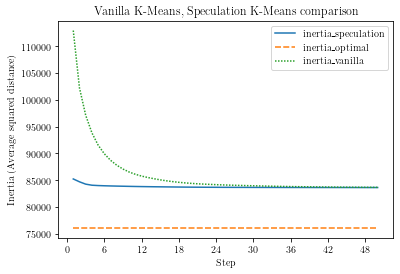
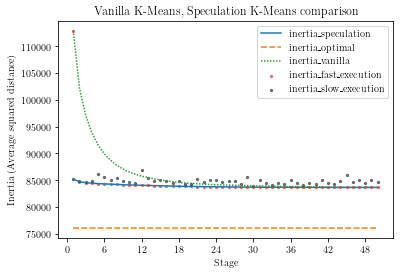
Written section 4. Speculative K-means

Changed region(s): [[0.63, 0.0876, 0.96, 0.3796], [0.18, 0.6423, 0.96, 0.7007], [0.54, 0.9343, 0.6, 0.9927]]

diff --git a/04-method/main.tex b/04-method/main.tex
@@ -2,22 +2,22 @@ Section \ref{section:related_work} has explored the K-Means clustering algorithm
 
 \subsection{Breaking K-Means dependencies}
 
-We saw how Algorithm \ref{alg:1} consists of two main steps: the assignment step and the update step. The assignment step includes \ref{alg:step:3} and \ref{alg:step:4}, while the update step includes \ref{alg:step:5}. The two steps are dependent on each other, as the assignment of data points depends on the current cluster centers, which are in turn updated based on the assignments. This creates a cyclical pattern in the k-means algorithm.
+We saw how Algorithm \ref{alg:1} consists of two main steps: the assignment step and the update step. The assignment step includes \ref{alg:step:3} and \ref{alg:step:4}, while the update step includes \ref{alg:step:5}. The two steps are dependent on each other, as the assignment of data points depends on the current cluster centers, which are in turn updated based on the assignments. This creates a cyclical pattern in the K-Means algorithm.
 
 We can group the K-Means steps into stages, each containing an Assignment step and
 an Update step. Many of these stages are repeated in the K-Means algorithm until convergence.
-A first way of breaking the highlighted dependencies would be to separate in each stage the Update and Assignment into two different processes. This would allow them to run in parallel, thus reducing the overall time of execution of a stage. This could be done by speculating the result of the Assignment (or the Update) allowing the consequent Update (or the Assignment) to start running concurrently. Finally, we could perform a repair step once the correct result of the Assignment (or the Update) is available. Repeating this process until convergence would result in a faster K-Means algorithm.
+A first way of breaking the highlighted dependencies would be to separate in each stage the Update and Assignment into two different processes. This corresponds to the approach used in \cite{Sioulas:282304}, and it aims to run in parallel the Assignment and the Update step, thus reducing the overall time of execution of a single stage. In particular, we would speculate the result of the Assignment (or the Update) allowing the consequent Update (or the Assignment) to start running concurrently. Finally, we could perform a repair stage once the correct result of the Assignment (or the Update) is available. Repeating this procedure for each stage until convergence would result in an overall faster K-Means algorithm.
 
 However, after a study of the time of executions, we can see how the Assignment step takes more time than the Update step. In particular, the ratio between the time of an Assignment step and the time of the Update step increases with $k$, as shown in Figure \ref{fig:ratio_k}. As consequence, the parallelization of Assignment and Update in each stage results inefficient, since the gain of the concurrent execution is irrelevant for $t_{Assignment} \gg t_{Update}$.
 
-\begin{figure}[h]
+\begin{figure}[ht]
 \centering
 \includegraphics[width=\linewidth]{./plots/ratio_k.png}
 \caption{Evolution of ratio between time execution of Assignment and Update}
 \label{fig:ratio_k}
 \end{figure}
 
-Therefore, we decided to use a different approach in the implementation of Speculation. Instead of running Assignment and Update in parallel for each stage, we run two executions of K-Means concurrently. Both executions start with the same given centroids, but there are two distinct executions: the slow execution, which processes one stage consisting of one Assignment step and one Update step using the full dataset, and the fast execution, which runs on a sample of the dataset and is able to process multiple stages in the same amount of time as the slow execution. As soon as the slow execution finishes, the fast execution is interrupted, to guarantee that they both to take the same amount of time.
+Therefore, we decided to use a different approach in the implementation of Speculation. Instead of running Assignment and Update in parallel for each stage, we run two executions of K-Means concurrently. Both executions start with the same given centroids, but there are two distinct executions: the slow execution, which processes one stage consisting of one Assignment stage and one Update step using the full dataset, and the fast execution, which runs on a sample of the dataset and is able to process multiple stages in the same amount of time as the slow execution. As soon as the slow execution finishes, the fast execution is interrupted, to guarantee that they both take the same amount of time.
 Finally, we compare the centroids proposed by both the executions, we compute the inertia they lead to on the entire dataset, and we pick the centroids with the smallest inertia.
 \begin{algorithm}
 \caption{K-Means Clustering using Speculation}
@@ -26,8 +26,8 @@ Finally, we compare the centroids proposed by both the executions, we compute th
 \State Initialize centroids $c_i$ randomly
 \State Create two threads of execution: slow and fast
 \label{state:create_threads}
-\State Run 1 Assignment step and 1 Update step on the slow execution starting from $c_i$
-\State Run as many as possible steps on a sample of the dataset on the fast execution starting from $c_i$
+\State Run 1 Assignment stage and 1 Update stage on the slow execution starting from $c_i$
+\State Run as many as possible stages on a sample of the dataset on the fast execution starting from $c_i$
 \State When slow execution finishes, stop fast execution. Get the proposed centroids $c_{slow}$, $c_{fast}$
 \State Compute the inertia $I_X(c_{slow})$, $I_X(c_{fast})$ on the entire dataset $X$
 \State $c_i = argmin_c(I_X(c_{slow}), I_X(c_{fast}))$ select centroids minimizing the inertia.
@@ -39,11 +39,12 @@ Finally, we compare the centroids proposed by both the executions, we compute th
 \end{algorithmic}
 \end{algorithm}
 
-The fast execution of the K-Means algorithm is used to speculate and predict future centroids that the slow execution may encounter, by traversing a speculative path, where it predicts which are going to be the results of the future stages of the slow execution. In case its prediction is correct, it will allow skipping several steps of the K-Means algorithm, breaking this way the cyclic dependency. This is possible since it works on a subset of the dataset, allowing it to execute faster and dive deeper into the algorithm, approaching more the convergence. However, as discussed in Section \ref{section:approximation}, this comes at a cost since, the fast execution is working on a subset of the dataset, therefore the final solution may not be as accurate. To avoid this, the slow execution is used to compute the result on the entire dataset, ensuring an accurate final result. Thus, the two executions have different purposes, with the fast execution being used to speculate and the slow execution being used to ensure accuracy.
+The fast execution of the K-Means algorithm is used to speculate and predict an approximation of future centroids that the slow execution may encounter, by traversing a speculative path. In case its prediction is correct, it will allow skipping several stages of the K-Means algorithm, breaking this way the cyclic dependency. This is possible since it works on a subset of the dataset, allowing it to execute faster and dive deeper into the algorithm, approaching more the convergence. However, as shown in section \ref{section:approximation}, this approach can lead to less accurate results when applied to the full dataset due to the use of subsets of the data.
+To address this issue, the slower execution is employed to compute the result using the entire dataset, ensuring that Speculative K-Means will converge towards a solution that takes into account the entire dataset. Thus, the two executions have different purposes, with the fast execution being used to speculate and the slow execution being used to ensure accuracy.
 
-In Figure \ref{fig:speculation_conceptual_design},we illustrate the proposed design. We indicate the Assignment step with $A$ and the Update step with $B$. The green shapes represent the steps actually executed, whereas the red ones indicate the steps we would save in case the speculation of the fast execution is correct. 
+In Figure \ref{fig:speculation_conceptual_design},we illustrate the proposed design. We indicate the Assignment stage with $A$ and the Update stage with $B$. The green shapes represent the stages actually executed, whereas the red ones indicate the stages we would save in case the speculation of the fast execution is correct. 
 
-\begin{figure}[h]
+\begin{figure}[ht]
 \centering
 \includegraphics[width=\linewidth]{./plots/speculative_KMeans_conceptual_design.png}
 \caption{Conceptual Design of Speculative K-Means}
@@ -51,32 +52,59 @@ In Figure \ref{fig:speculation_conceptual_design},we illustrate the proposed des
 \end{figure}
 
 
+The main difference between the Speculative Execution used in \cite{Sioulas:282304}, discussed in section \ref{section:speculation}, and the Speculative K-Means technique is that in the former, the speculation is used to break the dependency between the inner and outer query in order to increase parallelism, while in the latter, the speculation is used to predict possible future results (i.e: the centroids). Therefore, we are breaking the dependencies in a different sense, which is that we are not traversing the entire chain of dependencies anymore in order to arrive at the final result. Additionally, the correction phase in \cite{Sioulas:282304} ensures that the results of the query using the speculation technique are the same as the results of a vanilla execution, while in our approach the correction phase ensure an accurate convergence. The centroids we obtain using the fast execution are an approximation of future centroids with similar inertia we may encounter in the slow execution many stages later, but they are very likely to be different.
+
+\begin{figure}[ht]
+\centering
+\includegraphics[width=\linewidth]{./plots/vanilla_speculation_comparison.png}
+\caption{\href{https://www.openml.org/d/23395}{OpenML Dataset 23395} The dataset used is an ARFF dataset called COMET\_MC\_SAMPLE, version 2, uploaded on April 22nd, 2016. It is publicly available and can be downloaded from the URL provided. It contains 6 features and 89640 instances, and can be found on OpenML with the ID 23395.}
+\label{fig:vanilla_speculation_comparison}
+\end{figure}
+In Figure \ref{fig:vanilla_speculation_comparison}, we can observe the comparison between two K-Means executions, one using Speculation and the other not. Both start from the same initial centroid, compute $k=8$ clusters, and run for a maximum of $50$ stages.
+The execution with Speculation is more efficient, as it reaches convergence after 6 stages, while the vanilla implementation takes 30 stages. Furthermore, the accuracy of the final result is the same for both executions, showing how the slow execution and the correction phase ensure a comparable final inertia.
+
+
 \subsection{Escaping local minima}
+\label{section:escaping_local_minima}
+Figure \ref{fig:vanilla_speculation_comparison} illustrates that both the Speculative K-Means and the vanilla version do not converge to the optimal minimum. As discussed in Section \ref{alg:K-Means_pp_initialization}, the initialization of K-Means plays a crucial role in determining the quality of the final clustering. Initialization techniques like K-Means++ improve the final results, but have an initial time-cost. We propose an alternative approach that avoids this initial cost, while still leading to a global minimum.
 
-As we saw in Section \ref{alg:K-Means_pp_initialization}, it is important to note how important the initialization is in K-Means, as it determines the quality of the final clustering. K-Means++ improves the final results, but has an initial-time cost. We propose an alternative approach that avoids this cost, while still leading to a global minimum.
-
-Figure \ref{fig:speculation_conceptual_design} and Algorithm \ref{alg:kmeans_speculation} show how the fast execution starts from the same centroids as the slow execution. However, by doing this, both executions are conditioned by the first initialization of the centroids. We suggest that the fast execution starts from a slightly different set of centroids than the slow one. This would allow us to take advantage of the fast execution to explore more of the solution space, searching for global minima.  At the same time, the repair step, where we compare the found centroids by computing their inertia, will guarantee convergence. This method is similar to having a vanilla K-Means executed many times from different initial centroids, and picking the best-obtained solution, but it is implemented only on the fast execution.
+Figure \ref{fig:speculation_conceptual_design} and Algorithm \ref{alg:kmeans_speculation} show how the fast execution starts from the same centroids as the slow execution. However, by doing this, both executions are conditioned by the first initialization of the centroids. We suggest that the fast execution starts from a slightly different set of centroids than the slow one. This would allow us to take advantage of the fast execution to explore more of the solution space, searching for global minima.  At the same time, the repair stage, where we compare the found centroids by computing their inertia, will guarantee convergence. This method is similar to having a vanilla K-Means executed many times from different initial centroids, and picking the best-obtained solution, but it is implemented only on the fast execution, and it is distributed over many speculative executions.
 
 Each time we start the speculation phase, we suggest sampling $k$ datapoints from the dataset as new initial centroids $c_i'$, and modifying the starting centroids of the fast execution by combining linearly the given initial centroids and the sampled ones
 \begin{equation}
-c_i = p \cdot c_i' + (1-p) \cdot c_i
-\end{equation} The value $p$ determines how intensely we want to perturb the initial centroids: the closer it is to $1$ the more random the centroids are, and the more we explore the solution space. This parameter expresses the degree of exploration we want from the fast execution. It can be set statically before the K-Means execution to an optimal value which may vary from dataset to dataset, or it can be adapted at run time, by adapting the randomness based on the quality of solutions we are finding stage after stage.
+c_i = p \cdot c_i + (1-p) \cdot c_i'
+\end{equation} The value $p$ determines how intensely we want to perturb the initial centroids: the closer it is to $0$ the more random the centroids are, and the more we explore the solution space. This parameter expresses the degree of exploration we want from the fast execution. It can be set statically before the K-Means execution to an optimal value which may vary from dataset to dataset, or it can be adapted at run time, by adapting the randomness based on the quality of solutions we are finding stage after stage.
+In Figure \ref{fig:vanilla_speculation_comparison_resampling} we can see how using the centroid resampling technique with $p = 0.8$ improves the inertia of the final clusters.
+\begin{figure}[ht]
+\centering
+\includegraphics[width=\linewidth]{./plots/vanilla_speculation_comparison_resampling_centroids.png}
+\caption{Escaping local minima: Speculative K-Means with centroid resampling. $p = 0.8$}
+\label{fig:vanilla_speculation_comparison_resampling}
+\end{figure}
+
+
 \subsection{Speculation in the final stages of K-Means}
-As we are approaching the convergence, the accuracy and effectiveness of the speculation done by the fast execution decreases.
-This is due to the fact that the last steps of K-Means need the entire datasets in order to compute the exact position of the centroids, and we are not able to do this by using a sample of it.
-This leads us to the question of what to do with the fast execution, and if we can improve its prediction even during the last steps before convergence.
+As the algorithm approaches convergence, the accuracy and effectiveness of the speculation carried out by the fast execution decreases, as shown in Figure \ref{fig:vanilla_speculation_comparison}. In the initial stages, the inertia of the centroids proposed by the fast execution is significantly smaller than the inertia of the centroids of the slow execution, but it becomes comparable in the next 3/4 stages. Additionally, as we approach convergence, the inertia of the fast execution's centroids is constantly greater than that of the slow execution.
+This is due to the fact that the last stages of K-Means before convergence need the entire datasets in order to compute the exact position of the centroids, and we are not able to do this by using a sample of it.
+This leads us to the question of what to do with the fast execution, and if we can improve its prediction even during the last stages before convergence.
 We propose several possible approaches.
 
 First, we propose keeping track of the previous predicted centroids by the fast execution. Every time a fast execution starts we sample a different subset of dataset it will work on.
-Each subset will lead to a different centroids prediction, therefore we decide to keep memory of them using a tracing method, which consist in updating the newly discovered $c_{slow}$ centroids with the $c_{slow}^{past}$ past centroids in the following way:
+Each subset will lead to a different centroids prediction, therefore we decide to keep memory of them using a tracing method, which consist in updating the newly discovered $c_{fast}$ centroids with the $c_{fast}^{past}$ past centroids in the following way:
 \begin{equation}
-c_{slow} = q \cdot c_{slow} + (1-q) \cdot c_{slow}^{past}
+c_{fast} = q \cdot c_{fast} + (1-q) \cdot c_{fast}^{past}
 \end{equation}
 Again, we can see how $q$ plays the role of a hyperparameter which determines how much we should keep track of the past speculated centroids.
 This type of tracing leads to an exponential decay of the memory of the past centroids.
-The reason why this method should help the prediction of the fast execution in the late stages of K-Means, is because it tries to combine the contribution of different speculation. If the problem resides in the fact that a sample of the dataset is not able to represent the entire dataset in the computation of the centroids, then by combining the contribution of different samples we should mitigate this limitation.
-Next approaches:
-\begin{enumerate}
-    \item Increase the subsample size while converging. This reduces the number of stages of the fast execution, which howver wouldn't be necessary since we are near to the convergence, then not many stages are left. At the same time we increase the accuracy of the prediction.
-    \item Switch to data parallelism
-\end{enumerate}
+The reason why this method should help the prediction of the fast execution in the late stages of K-Means, is because it tries to combine the contribution of different speculation. If the problem resides in the fact that a sample of the dataset is not able to represent the entire dataset in the computation of the centroids, then by combining the contribution of different samples we should mitigate this limitation. In Figure \ref{fig:vanilla_speculation_comparison_trace} we can see how with tracing the prediction of the fast execution are more accurate even in the last stages.
+
+\begin{figure}[h]
+\centering
+\includegraphics[width=\linewidth]{./plots/vanilla_speculation_comparison_trace.png}
+\caption{Speculative K-Means with tracing $q = 0.5$, without centroid resampling.}
+\label{fig:vanilla_speculation_comparison_trace}
+\end{figure}
+
+An alternative approach that may be effective is to gradually increase the sample size of the data points that the fast execution algorithm is working with. As previously mentioned \ref{section:approximation}, there is a trade-off between performance and accuracy when using subsamples in K-Means, with smaller sample sizes leading to faster stages but less accurate predictions. At the start of the algorithm, it may be beneficial to use a small sample size in order to quickly explore different speculation paths and arrive at centroid estimates that are close to the final solution. In this phase, the accuracy of the predicted centroids is not as important as being able to delve into the speculation path for numerous stages. However, as we approach convergence, it becomes more crucial to have accurate speculation. In this phase, we need to make small adjustments to the centroids in order to find their optimal positions, and in order to do this we need to have access to the full dataset. Thus, we can gradually increase the sample size in order to reduce the number of stages processed by the fast execution (which is not a significant concern at this point, since we are close to convergence) and improve the accuracy of our predictions by having an increasing complete view of the data.
+
+Another solution we propose is to switch to data parallelism in the later stages of the algorithm. If the fast execution is less effective in the final stages, it may be more beneficial to use the resources allocated to it for parallelizing the slow execution, which is the only one capable of finding the final solution. This transition can be done gradually. It's worth noting that, if centroid resampling is used as mentioned in \ref{section:escaping_local_minima}, the fast execution may still be able to find an optimal solution in the final stages. Therefore, it may be important to not switch to full parallelization too early in order to allow the fast execution a chance to find these optimal solutions.

diff --git a/03-related/main.tex b/03-related/main.tex
@@ -41,7 +41,5 @@ Both of these methods are used to reduce the execution time and the amount of me
 An alternative solution for addressing K-Means on large datasets is to use parallelization with a distributed framework such as Spark. This approach takes advantage of distributed computing to process large datasets quickly and efficiently. However, there are two limitations to this approach, as discussed in [paper speculation]. Firstly, Amdahl's law suggests that the benefits of additional resources may be limited, as the increase in resources often results in diminishing returns in performance. Secondly, the data parallelization cannot break the dependency between the two steps in K-means mentioned in section \ref{section:dependencies}, meaning that a single step must be executed at a time, possibly leading to resource underutilization. In fact, in some scenarios it can be the case that the available resources out scale the dataset, and as a consequence we have some nodes remaining idle when executing only one step. 
 
 \subsection{Speculative Execution}
-The Speculation technique we use is based on the idea of Speculative Execution from the paper X, which defines a new query processing paradigm that accelerates inter-dependent queries using speculation and approximate query processing. The Speculative technique used allows to relax dependencies between queries, increase task parallelism, and reduce end-to-end latency. It works by detecting dependencies between outer and inner sub-queries and creating two separate execution paths: one for speculative execution and one for validation/repairs. The speculative execution path executes the outer query by resolving any cross-query conditions with the help of a branch predictor. At the same time, the validation/repair execution path performs three steps: (i) it fully computes the inner query, (ii) it validates the speculative decisions, and (iii) it repairs the results in case of mispredictions. This technique decouples the inner and outer queries and allows them to run in parallel or share data and operators if they process rows from the same table.
-
-The main difference between the Speculative Execution technique used in paper X and the Speculative K-Means technique is that in the former, the speculation is used to break the dependency between the inner and outer query in order to increase parallelism, while in the latter, the speculation is used to predict possible future results (i.e: the centroids). Therefore, we are breaking the dependencies in a different sense, which is that we are not traversing the entire chain of dependencies anymore in order to arrive at the final result. Additionally, the correction phase in paper X ensures that the results of the query using the speculation technique are the same as the results of a vanilla execution, while in our approach the correction phase only ensures that the centroids obtained using the fast execution are better in terms of inertia than those of the slow execution. The centroids we obtain using the fast execution are an approximation of future centroids with similar inertia we may encounter in the slow execution many stages later, but they are very likely to be different.
-
+\label{section:speculation}
+The Speculation technique we use comes from \cite{Sioulas:282304}, which defines a new query processing paradigm that accelerates inter-dependent queries using speculation and approximate query processing. The Speculative technique used allows to relax dependencies between queries, increase task parallelism, and reduce end-to-end latency. It works by detecting dependencies between outer and inner sub-queries and creating two separate execution paths: one for speculative execution and one for validation/repairs. The speculative execution path executes the outer query by resolving any cross-query conditions with the help of a branch predictor. At the same time, the validation/repair execution path performs three steps: (i) it fully computes the inner query, (ii) it validates the speculative decisions, and (iii) it repairs the results in case of mispredictions. This technique decouples the inner and outer queries and allows them to run in parallel or share data and operators if they process rows from the same table.

diff --git a/main.tex b/main.tex
@@ -112,9 +112,13 @@
 \usepackage{import}
 \usepackage{algorithm}
 \usepackage{algpseudocode}
+\bibliographystyle{ACM-Reference-Format}
+
 %%
 %% end of the preamble, start of the body of the document source.
 \begin{document}
+
+
 
 %%
 %% The "title" command has an optional parameter,
@@ -231,7 +235,7 @@
 \section{Conclusion}
 \import{07-conclusion/}{main.tex}
 
-
+\bibliography{References}
 
 \end{document}
 \endinput
